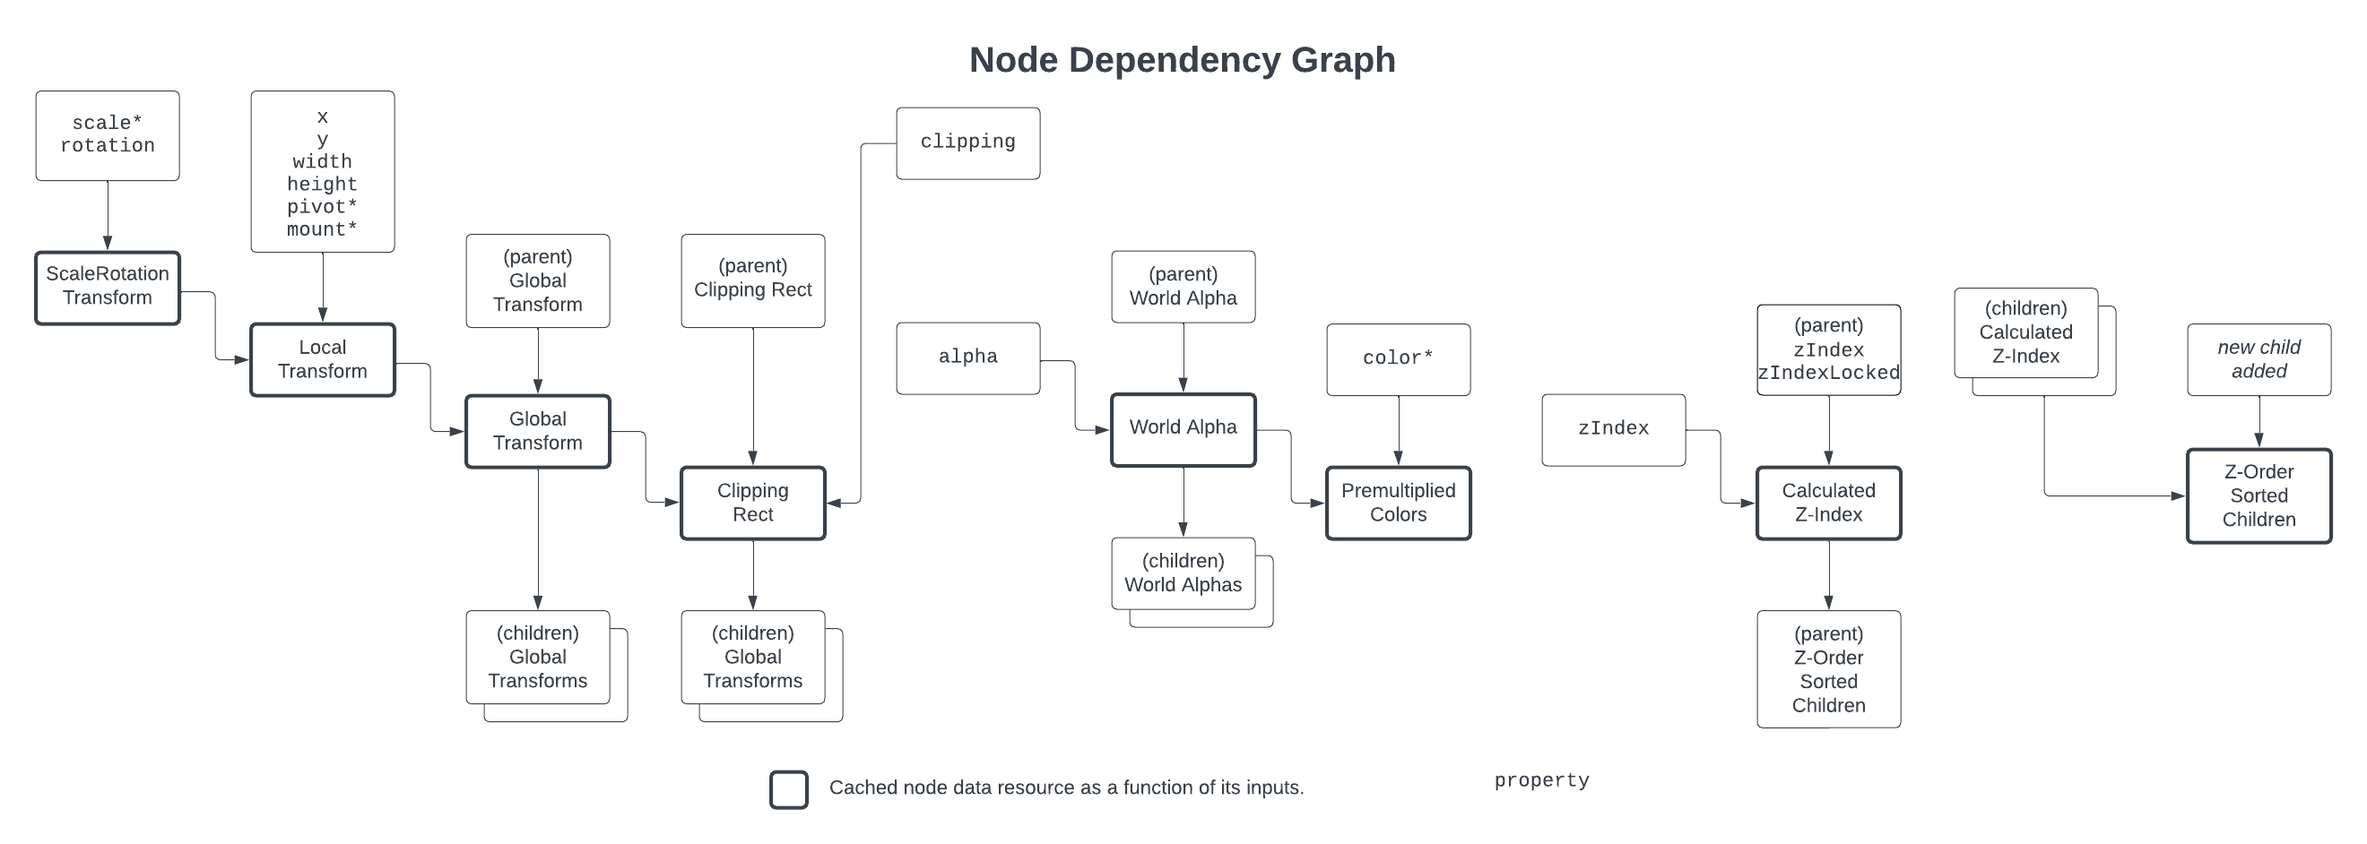
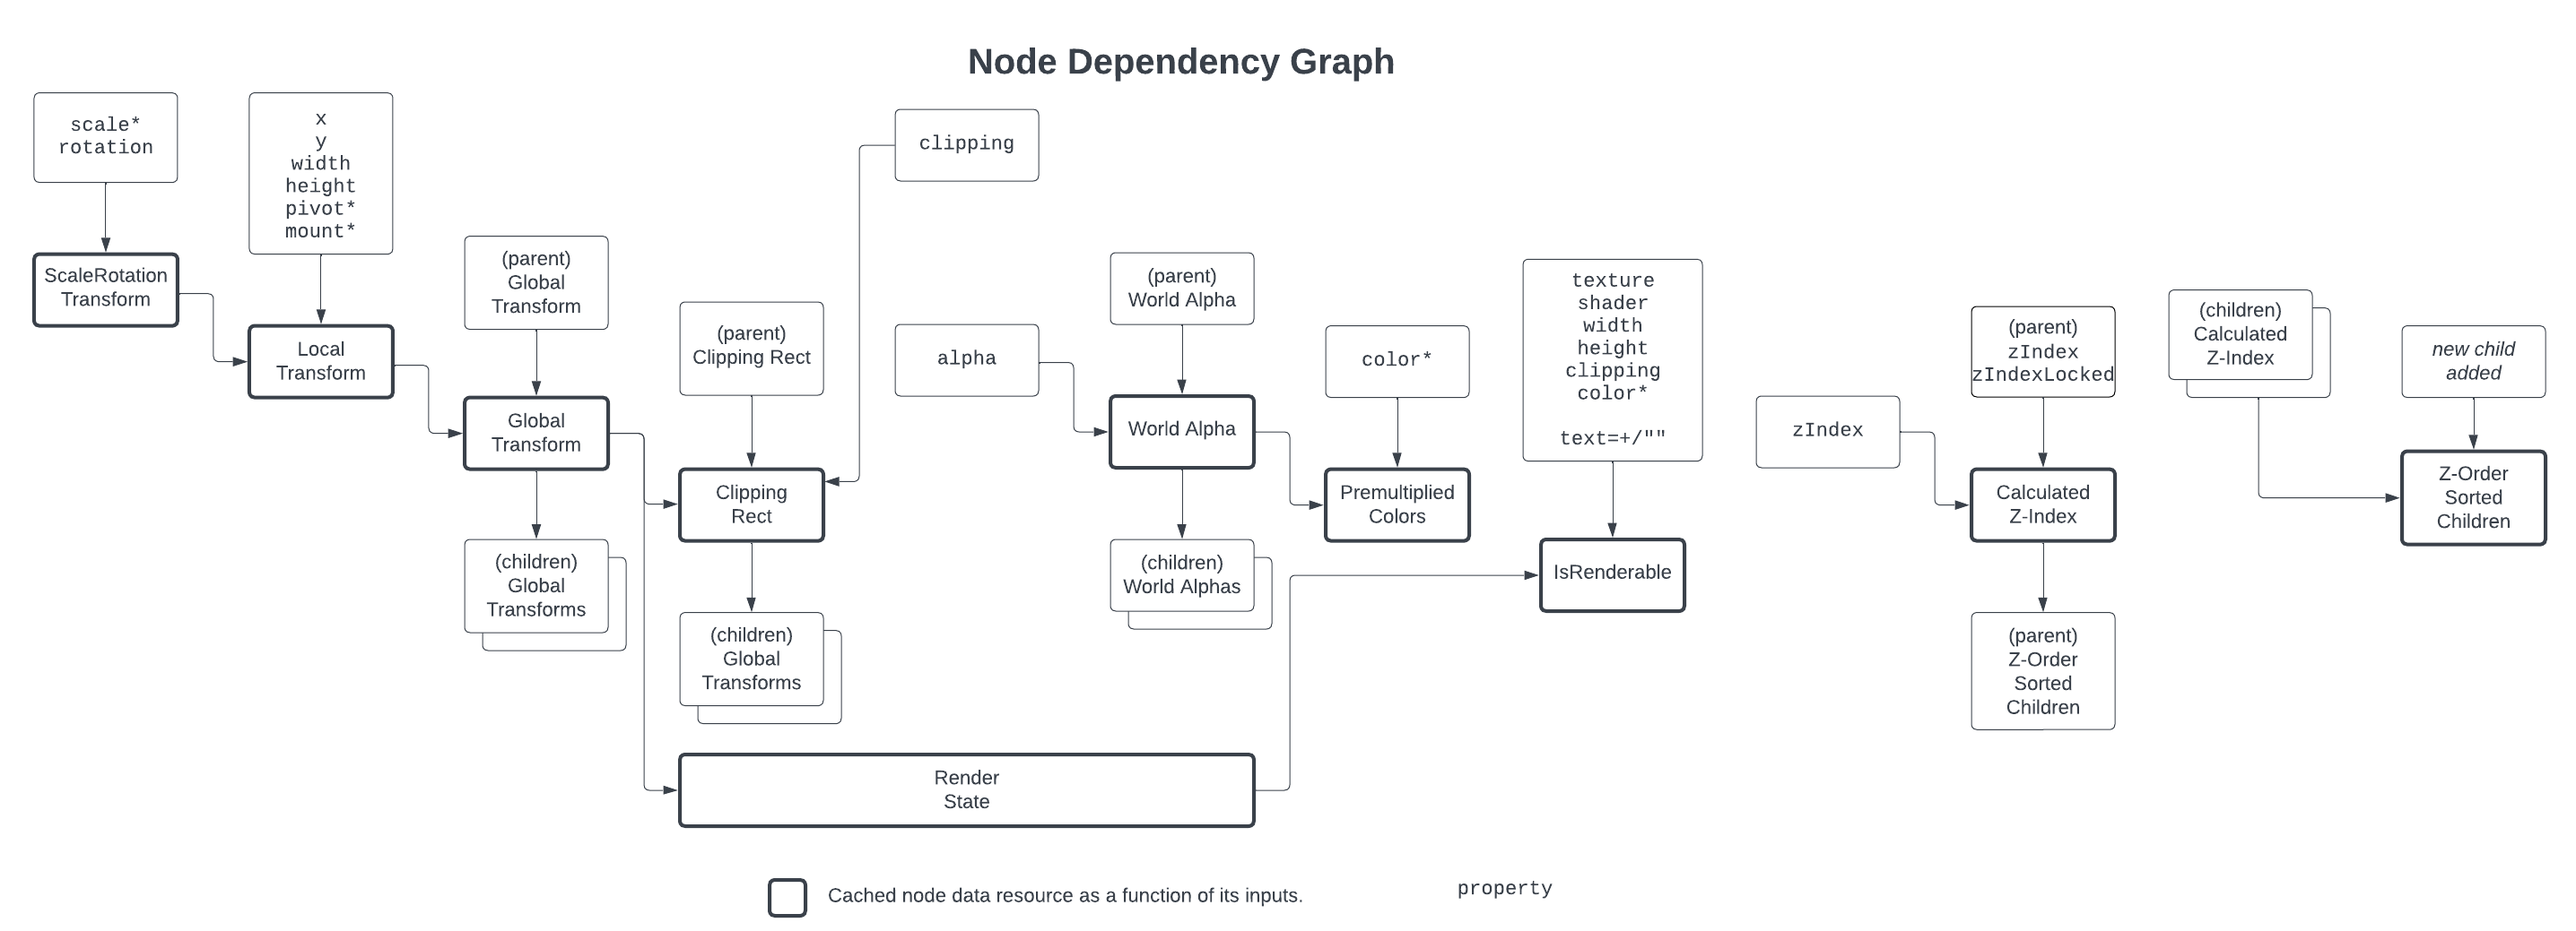
Make RenderState & IsRenderable distinct update stages

diff --git a/src/core/CoreNode.ts b/src/core/CoreNode.ts
@@ -113,46 +113,98 @@ export enum UpdateType {
 
   /**
    * Scale/Rotate transform update
+   *
+   * @remarks
+   * CoreNode Properties Updated:
+   * - `scaleRotateTransform`
    */
   ScaleRotate = 2,
 
   /**
    * Translate transform update (x/y/width/height/pivot/mount)
+   *
+   * @remarks
+   * CoreNode Properties Updated:
+   * - `localTransform`
    */
   Local = 4,
 
   /**
-   * Global transform update
+   * Global Transform update
+   *
+   * @remarks
+   * CoreNode Properties Updated:
+   * - `globalTransform`
+   * - `renderCoords`
+   * - `renderBound`
    */
   Global = 8,
 
   /**
    * Clipping rect update
+   *
+   * @remarks
+   * CoreNode Properties Updated:
+   * - `clippingRect`
    */
   Clipping = 16,
 
   /**
    * Calculated ZIndex update
+   *
+   * @remarks
+   * CoreNode Properties Updated:
+   * - `calcZIndex`
    */
   CalculatedZIndex = 32,
 
   /**
    * Z-Index Sorted Children update
+   *
+   * @remarks
+   * CoreNode Properties Updated:
+   * - `children` (sorts children by their `calcZIndex`)
    */
   ZIndexSortedChildren = 64,
 
   /**
-   * Premultiplied Colors
+   * Premultiplied Colors update
+   *
+   * @remarks
+   * CoreNode Properties Updated:
+   * - `premultipliedColorTl`
+   * - `premultipliedColorTr`
+   * - `premultipliedColorBl`
+   * - `premultipliedColorBr`
    */
   PremultipliedColors = 128,
 
   /**
-   * World Alpha
+   * World Alpha update
    *
    * @remarks
-   * World Alpha = Parent World Alpha * Alpha
+   * CoreNode Properties Updated:
+   * - `worldAlpha` = `parent.worldAlpha` * `alpha`
    */
   WorldAlpha = 256,
+
+  /**
+   * Render State update
+   *
+   * @remarks
+   * CoreNode Properties Updated:
+   * - `renderState`
+   */
+  RenderState = 512,
+
+  /**
+   * Is Renderable update
+   *
+   * @remarks
+   * CoreNode Properties Updated:
+   * - `isRenderable`
+   */
+  IsRenderable = 1024,
 
   /**
    * None
@@ -162,7 +214,7 @@ export enum UpdateType {
   /**
    * All
    */
-  All = 511,
+  All = 2047,
 }
 
 export class CoreNode extends EventEmitter implements ICoreNode {
@@ -221,7 +273,7 @@ export class CoreNode extends EventEmitter implements ICoreNode {
 
     this.props.texture = texture;
     this.props.textureOptions = options;
-    this.updateIsRenderable();
+    this.setUpdateType(UpdateType.IsRenderable);
 
     // If texture is already loaded / failed, trigger loaded event manually
     // so that users get a consistent event experience.
@@ -249,7 +301,7 @@ export class CoreNode extends EventEmitter implements ICoreNode {
     }
     this.props.texture = null;
     this.props.textureOptions = null;
-    this.updateIsRenderable();
+    this.setUpdateType(UpdateType.IsRenderable);
   }
 
   private onTextureLoaded: TextureLoadedEventHandler = (target, dimensions) => {
@@ -285,7 +337,7 @@ export class CoreNode extends EventEmitter implements ICoreNode {
     const { shader, props: p } = shManager.loadShader(shaderType, props);
     this.props.shader = shader;
     this.props.shaderProps = p;
-    this.updateIsRenderable();
+    this.setUpdateType(UpdateType.IsRenderable);
   }
 
   /**
@@ -365,8 +417,9 @@ export class CoreNode extends EventEmitter implements ICoreNode {
       }
       this.calculateRenderCoords();
       this.updateBoundingRect();
-      this.updateRenderState();
-      this.setUpdateType(UpdateType.Clipping | UpdateType.Children);
+      this.setUpdateType(
+        UpdateType.Clipping | UpdateType.RenderState | UpdateType.Children,
+      );
       childUpdateType |= UpdateType.Global;
     }
 
@@ -420,9 +473,17 @@ export class CoreNode extends EventEmitter implements ICoreNode {
           true,
         );
       }
-      this.updateIsRenderable();
       this.setUpdateType(UpdateType.Children);
       childUpdateType |= UpdateType.PremultipliedColors;
+    }
+
+    if (this.updateType & UpdateType.RenderState) {
+      this.updateRenderState();
+      this.setUpdateType(UpdateType.IsRenderable);
+    }
+
+    if (this.updateType & UpdateType.IsRenderable) {
+      this.updateIsRenderable();
     }
 
     // No need to update zIndex if there is no parent
@@ -563,7 +624,6 @@ export class CoreNode extends EventEmitter implements ICoreNode {
         current: renderState,
       });
     }
-    this.updateIsRenderable();
   }
 
   setRenderState(state: CoreNodeRenderState) {
@@ -573,11 +633,15 @@ export class CoreNode extends EventEmitter implements ICoreNode {
     }
   }
 
-  // This function checks if the current node is renderable based on certain properties.
-  // It returns true if any of the specified properties are truthy or if any color property is not 0, otherwise it returns false.
+  /**
+   * This function updates the `isRenderable` property based on certain conditions.
+   *
+   * @returns
+   */
   updateIsRenderable() {
     if (!this.checkRenderProps()) {
-      return (this.isRenderable = false);
+      this.isRenderable = false;
+      return;
     }
     this.isRenderable = this.renderState > CoreNodeRenderState.OutOfBounds;
   }
